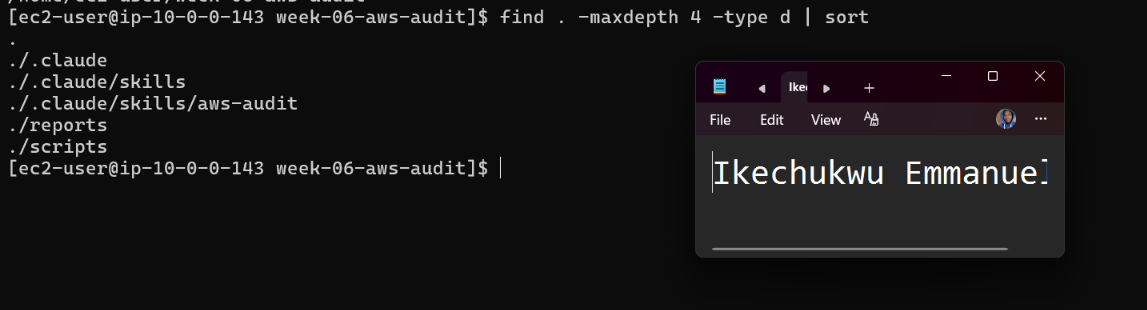
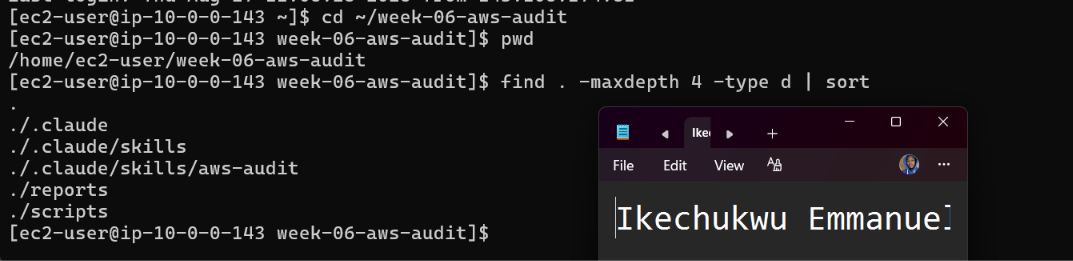
week-06 assignmemt-07 done

diff --git a/week-06-aws-cloud/assignment-07-ai-assisted-aws-security-and-cost-audit.md b/week-06-aws-cloud/assignment-07-ai-assisted-aws-security-and-cost-audit.md
@@ -30,7 +30,7 @@ Confirm your AWS CLI is authenticated and can see the S3 bucket, EC2 instance(s)
 
 #### Screenshot 2 — Output of `pwd` and `find . -maxdepth 4 -type d | sort`
 
-Add your screenshot here.
+![alt text](image-1.png)
 
 ---
 
@@ -38,11 +38,11 @@ Add your screenshot here.
 
 **1. Which resources from this week's earlier assignments did you see in the listings?**
 
-Write your answer here.
+I confirmed that the AWS resources from my earlier assignments are still available in my account. The listings showed my S3 bucket pravin-portfolio-ikechukwu-eu-west-3, my EC2 instance i-0c6bfe13f8a84d50c, which was running, and my RDS MySQL database database-1, which was available. These resources are the ones I will audit in this assignment.
 
 **2. Why must you confirm your resources exist before writing an audit script against them?**
 
-Write your answer here.
+I must confirm that the resources exist before writing the audit script so that the script targets the correct AWS resources and does not produce misleading results because of missing or incorrect resource names. It also confirms that my AWS CLI authentication and permissions are working and that the resources from the previous assignments are still available for the audit.
 
 ---
 
@@ -56,7 +56,7 @@ Create a `CLAUDE.md` in your workspace that tells Claude the audit script is rea
 
 #### Screenshot 3 — `CLAUDE.md` open in VS Code showing all four sections
 
-![alt text](image-1.png)
+![alt text](image-2.png)
 
 ---
 
@@ -64,11 +64,11 @@ Create a `CLAUDE.md` in your workspace that tells Claude the audit script is rea
 
 **1. Why should Claude never be given permission to run `revoke-security-group-ingress` itself, even if the fix is obviously correct?**
 
-Write your answer here.
+Claude should never execute the remediation command because it could make an incorrect decision based on incomplete or misunderstood evidence. Changing a security group can also affect access to my EC2 instance and could accidentally lock me out or disrupt the application. The audit skill should therefore only identify the problem and recommend the command, while I review and execute the change myself.
 
 **2. Which rule prevents Claude from claiming a finding that the report does not support?**
 
-Write your answer here.
+This ensures that Claude bases its findings on the evidence collected by the audit script rather than making assumptions or inventing problems.
 
 ---
 
@@ -82,7 +82,7 @@ Ask Claude Code to propose a read-only audit plan covering five checks — S3 pu
 
 #### Screenshot 4 — Claude Code showing the five-check plan
 
-Add your screenshot here.
+![alt text](image-3.png)
 
 ---
 
@@ -90,11 +90,11 @@ Add your screenshot here.
 
 **1. Which part of this task represents the Gather phase?**
 
-Write your answer here.
+The Gather phase is represented by the read-only AWS CLI commands Claude proposed for collecting information about the AWS resources. These commands inspect S3 public-access settings, EC2 security-group rules, RDS public accessibility, and EBS encryption status. No resources are changed; the commands only collect evidence that can be analyzed later.
 
 **2. Did every proposed command start with `describe-`, `get-`, or `list-`? Why does that matter?**
 
-Write your answer here.
+Yes. The proposed AWS CLI commands use read-only operations such as get-public-access-block and describe-security-groups, describe-db-instances, and describe-volumes. This matters because these commands only inspect AWS resources and retrieve information. They don't create, modify, delete, stop, or terminate anything, which keeps the audit safe and prevents Claude from accidentally changing the AWS account.
 
 ---
 
@@ -110,19 +110,19 @@ Make it executable and confirm it has no syntax errors.
 
 #### Screenshot 5 — Top section of `aws-audit.sh` showing the variables and the checks array
 
-Add your screenshot here.
+![alt text](image-4.png)
 
 ---
 
 #### Screenshot 6 — One check function (for example `check_ssh_open_to_world`) showing the AWS CLI call and conditional
 
-Add your screenshot here.
+![alt text](image-5.png)
 
 ---
 
 #### Screenshot 7 — Output of `bash -n scripts/aws-audit.sh` and `ls -l scripts/aws-audit.sh`
 
-Add your screenshot here.
+![alt text](image-6.png)
 
 ---
 
@@ -130,15 +130,15 @@ Add your screenshot here.
 
 **1. What is stored in the checks array, and how does the loop use it?**
 
-Write your answer here.
+The checks array stores the names of the five audit check functions that the script needs to run. The loop goes through each function in the array and executes it one after another. This makes the script easier to organize because I can add or remove an audit check without rewriting the entire execution section.
 
 **2. Why does every AWS CLI call in this script use `--query` and `--output text` instead of parsing raw JSON?**
 
-Write your answer here.
+--query allows the script to extract only the specific information it needs from the AWS response, while --output text returns that information in a simple format that Bash can easily compare and process. This is more reliable and easier to read than trying to parse large raw JSON responses inside the Bash script.
 
 **3. Why does the script use different exit codes for HEALTHY, WARN, and FAIL?**
 
-Write your answer here.
+Different exit codes allow other tools or automation systems to understand the result of the audit without having to read the entire report. A healthy audit returns a success code, a warning returns a different code to indicate that something needs attention, and a failure returns another code to indicate a serious finding. This makes the script useful in automated DevOps workflows and CI/CD pipelines.
 
 ---
 
@@ -152,13 +152,13 @@ Run the script against your live AWS account and capture the current state befor
 
 #### Screenshot 8 — Output of `./scripts/aws-audit.sh` showing your Full Name and all five checks
 
-Add your screenshot here.
+![alt text](image-7.png)
 
 ---
 
 #### Screenshot 9 — Output showing the captured exit code and final summary
 
-Add your screenshot here.
+![alt text](image-8.png)
 
 ---
 
@@ -166,15 +166,15 @@ Add your screenshot here.
 
 **1. What is the overall status of your baseline audit?**
 
-Write your answer here.
+My baseline audit status is FAIL because the S3 bucket does not fully block public access. The other checks did not show security problems, but the S3 public-access configuration needs to be fixed.
 
 **2. Did any check return FAIL or WARN? If so, which one, and what evidence did it show?**
 
-Write your answer here.
+Yes. The S3 public-access check returned FAIL because all four S3 Public Access Block settings were set to false: BlockPublicAcls, IgnorePublicAcls, BlockPublicPolicy, and RestrictPublicBuckets. The SSH, MySQL, and EBS checks passed, and the RDS instance was not publicly accessible.
 
 **3. If every check passed, what does that tell you about the security posture of your account so far?**
 
-Write your answer here.
+Not applicable because my baseline audit did not pass every check. However, three of the five checks passed, which shows that several parts of my AWS environment are configured securely, while the S3 public-access configuration remains a security issue that requires remediation.
 
 ---
 
@@ -188,13 +188,13 @@ Turn the script into a Claude Code skill named `/aws-audit` that runs the script
 
 #### Screenshot 10 — `SKILL.md` showing the frontmatter, tool restrictions, and safety rules
 
-Add your screenshot here.
+![alt text](image-10.png)
 
 ---
 
 #### Screenshot 11 — `/aws-audit` output showing findings, cost/risk impact, and a recommended remediation command (or a clean report if your baseline passed everything)
 
-Add your screenshot here.
+![alt text](image-9.png) 
 
 ---
 
@@ -202,15 +202,15 @@ Add your screenshot here.
 
 **1. Why does this skill have Bash, Read, and Grep, but not Write?**
 
-Write your answer here.
+The skill has Bash so it can run the read-only AWS audit script, and Read and Grep so Claude can inspect and search the generated audit report and project files. It does not have Write permission because the skill must not modify files or make changes to my AWS resources. This helps keep the audit process safe and read-only.
 
 **2. What part is performed by Bash, and what part is performed by Claude?**
 
-Write your answer here.
+Bash performs the actual audit by running scripts/aws-audit.sh and collecting information from my AWS resources using read-only AWS CLI commands. Claude then reads the generated report, explains the PASS, WARN, and FAIL findings, analyzes the security and possible cost impact, and recommends remediation commands without executing them.
 
 **3. Why is estimating cost/risk impact something the AI adds on top of a plain PASS/FAIL script?**
 
-Write your answer here.
+A Bash script can determine whether a configuration passes or fails a particular check, but it does not provide much context about what that finding means. Claude adds value by explaining the security risk, possible cost or operational impact, why the finding matters, and what remediation could be considered. This makes the audit results easier to understand and act on.
 
 ---
 
@@ -224,13 +224,13 @@ Pick one real finding from your baseline report (or deliberately open a security
 
 #### Screenshot 12 — Output of the `revoke-security-group-ingress` and `authorize-security-group-ingress` commands you ran yourself
 
-Add your screenshot here.
+![alt text](image-11.png)
 
 ---
 
 #### Screenshot 13 — Rerun of `./scripts/aws-audit.sh` showing the finding is now PASS
 
-Add your screenshot here.
+![alt text](image-12.png)
 
 ---
 
@@ -238,19 +238,21 @@ Add your screenshot here.
 
 **1. Which exact finding did you fix, and what command did you run?**
 
-Write your answer here.
+I fixed the EC2 SSH security-group finding by restricting SSH access to my own IP address instead of allowing access from the entire internet. I used the aws ec2 authorize-security-group-ingress command to create the restricted SSH rule.
 
 **2. Why did you scope the new rule to your own IP address instead of leaving it open to `0.0.0.0/0`?**
 
-Write your answer here.
+I scoped the rule to my own IP address to follow the principle of least privilege. This allows only my current IP address to connect through SSH while preventing unauthorized connection attempts from the rest of the internet.
 
 **3. Did Claude execute the remediation command, or did you? Why does that matter?**
 
-Write your answer here.
+I executed the remediation command myself. Claude only provided the recommended command and explained what it would do. This matters because the remediation changes a real AWS security configuration, so I should review and explicitly approve the change before executing it.
 
 **4. Which phase of the Agentic Loop does the Bash script represent? Which phase does Claude's explanation represent? Which phase is you running the fix?**
 
-Write your answer here.
+Bash audit script: Observe / Gather — it checks the AWS environment and collects security findings.
+Claude's explanation: Reason / Plan — it analyzes the findings and recommends what should be done.
+Me running the fix: Act / Execute — I manually apply the approved remediation to the AWS resource.
 
 ---
 
@@ -277,13 +279,13 @@ Suggested tags:
 
 Paste your LinkedIn post URL here:
 
-`Add your URL here`
+`https://www.linkedin.com/posts/ikechukwu-emmanuel_dmibypravinmishra-aws-agenticai-activity-7499843440189480960-lNo6?utm_source=share&utm_medium=member_desktop&rcm=ACoAAGENBPUBsLYqmgeLRkF6HTid7rCysjW2i7w`
 
 ---
 
 #### Screenshot of Published LinkedIn Post
 
-Add your screenshot here.
+![alt text](image-13.png)
 
 ---
 
